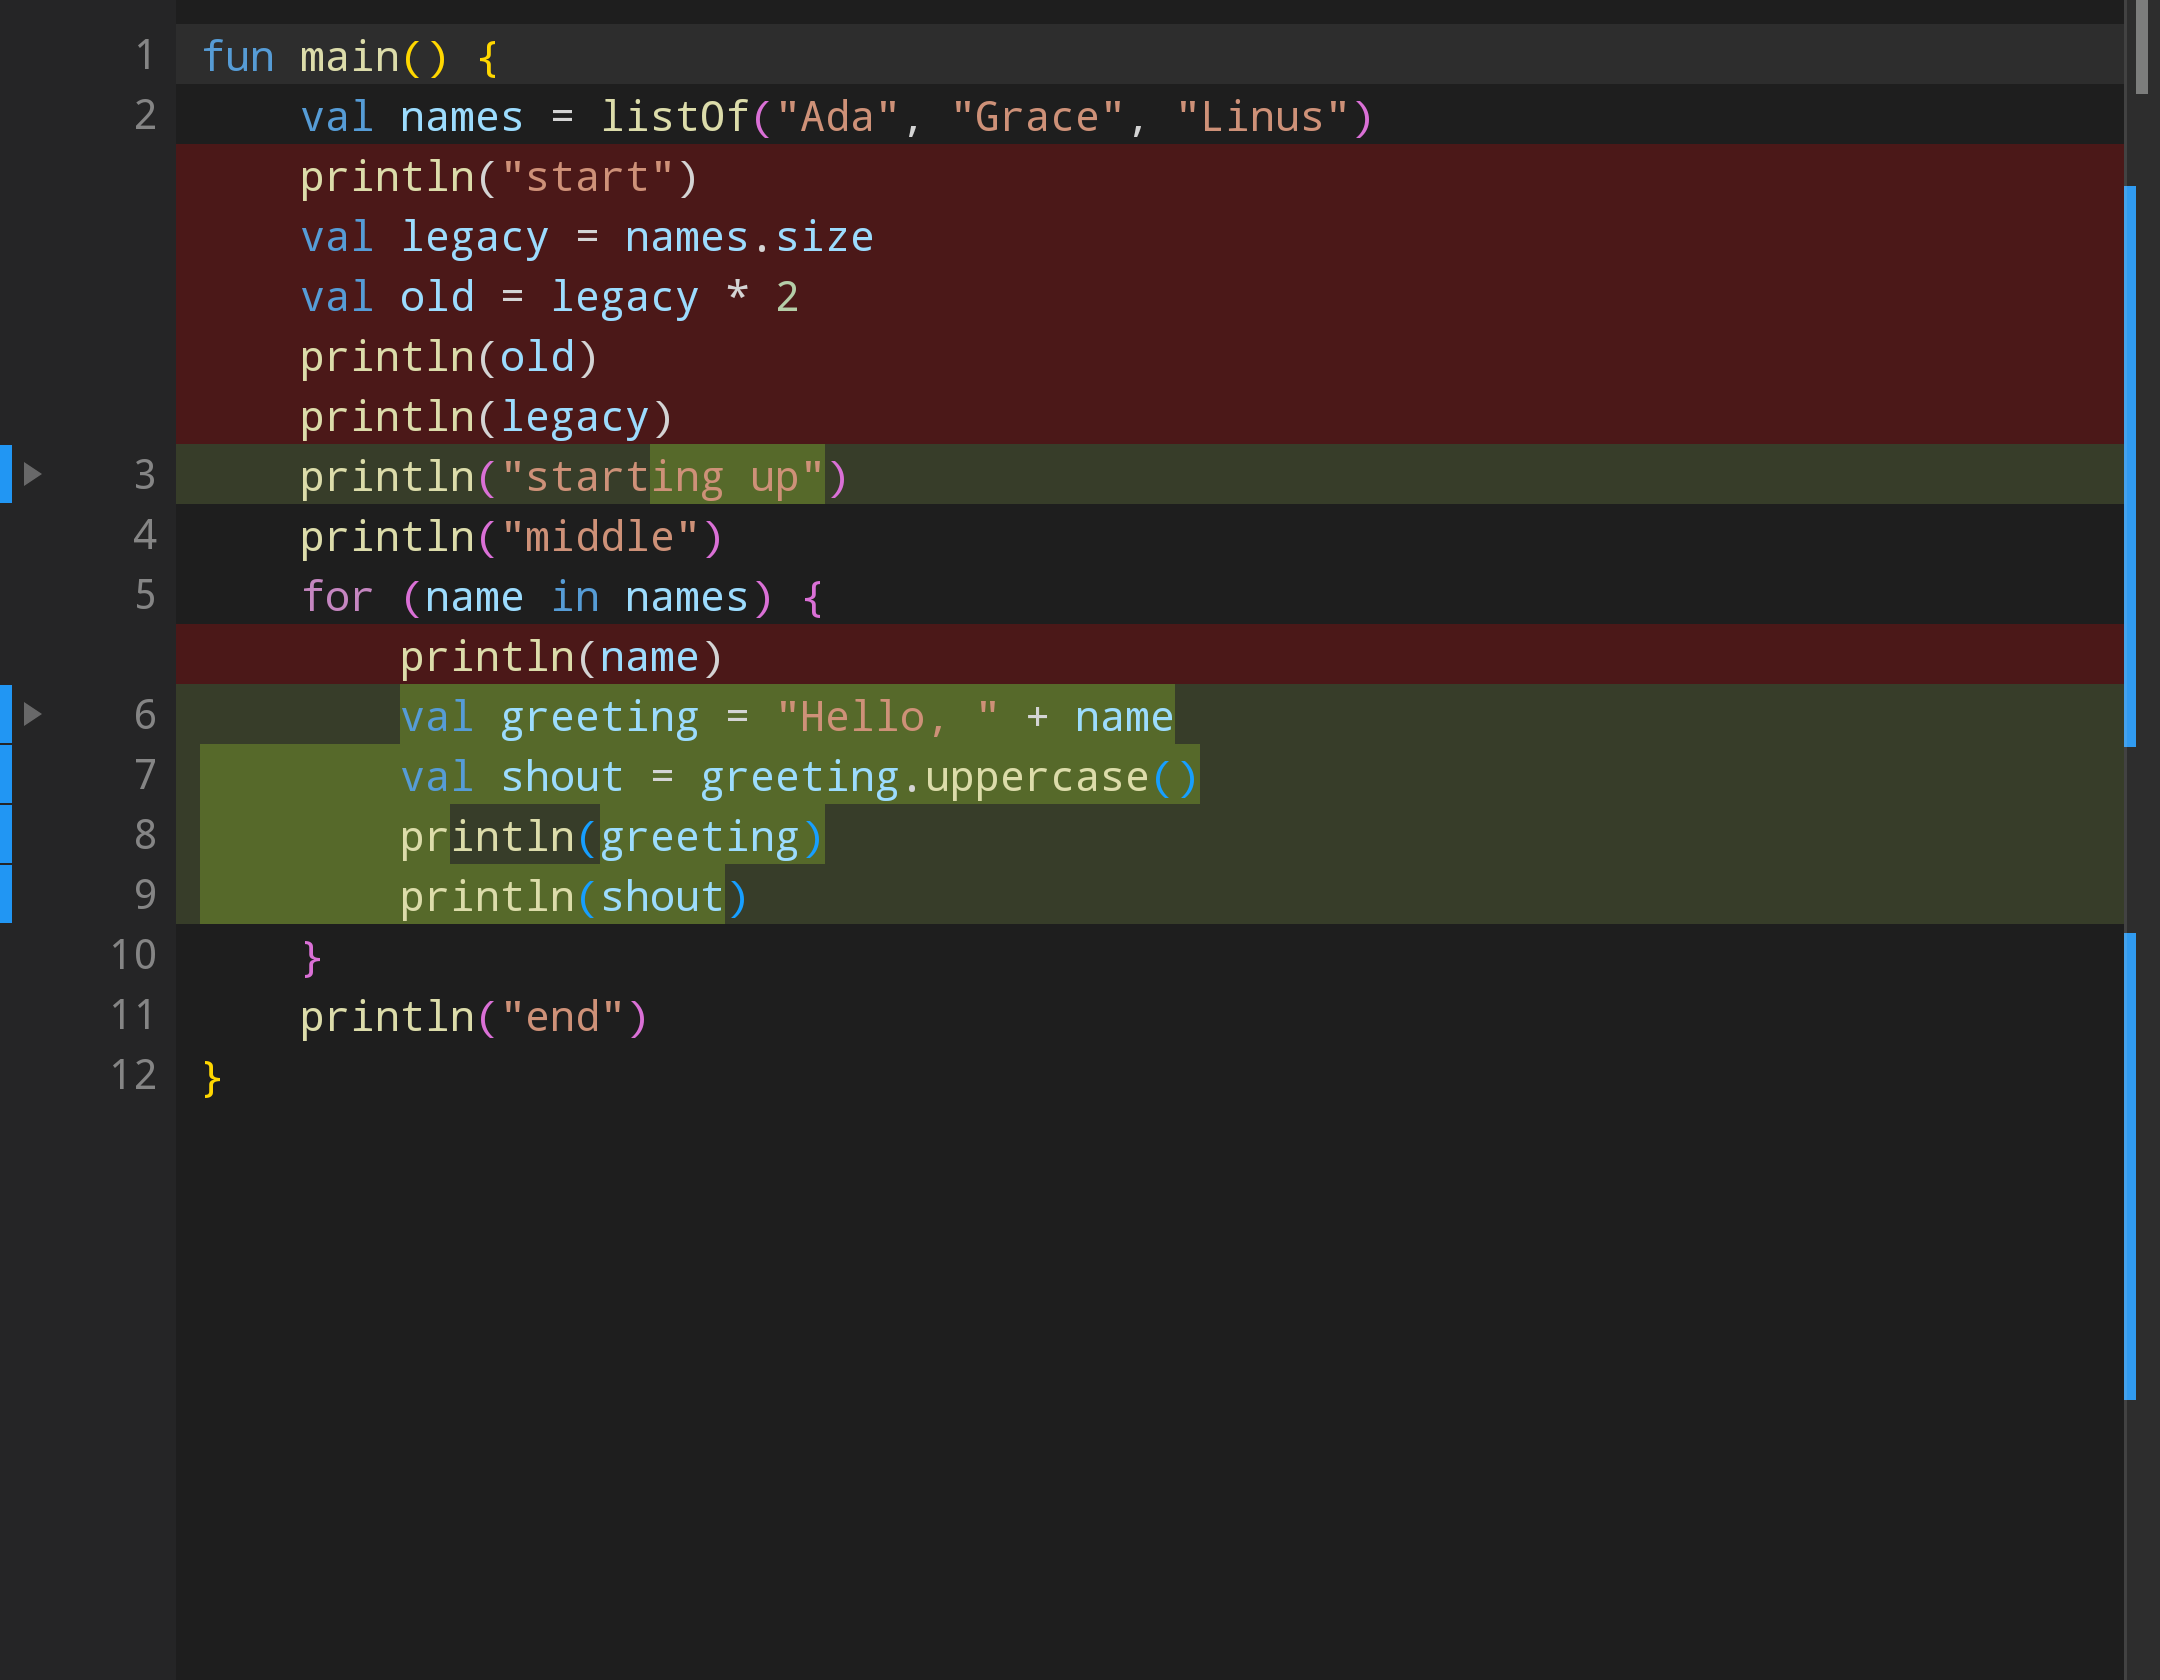
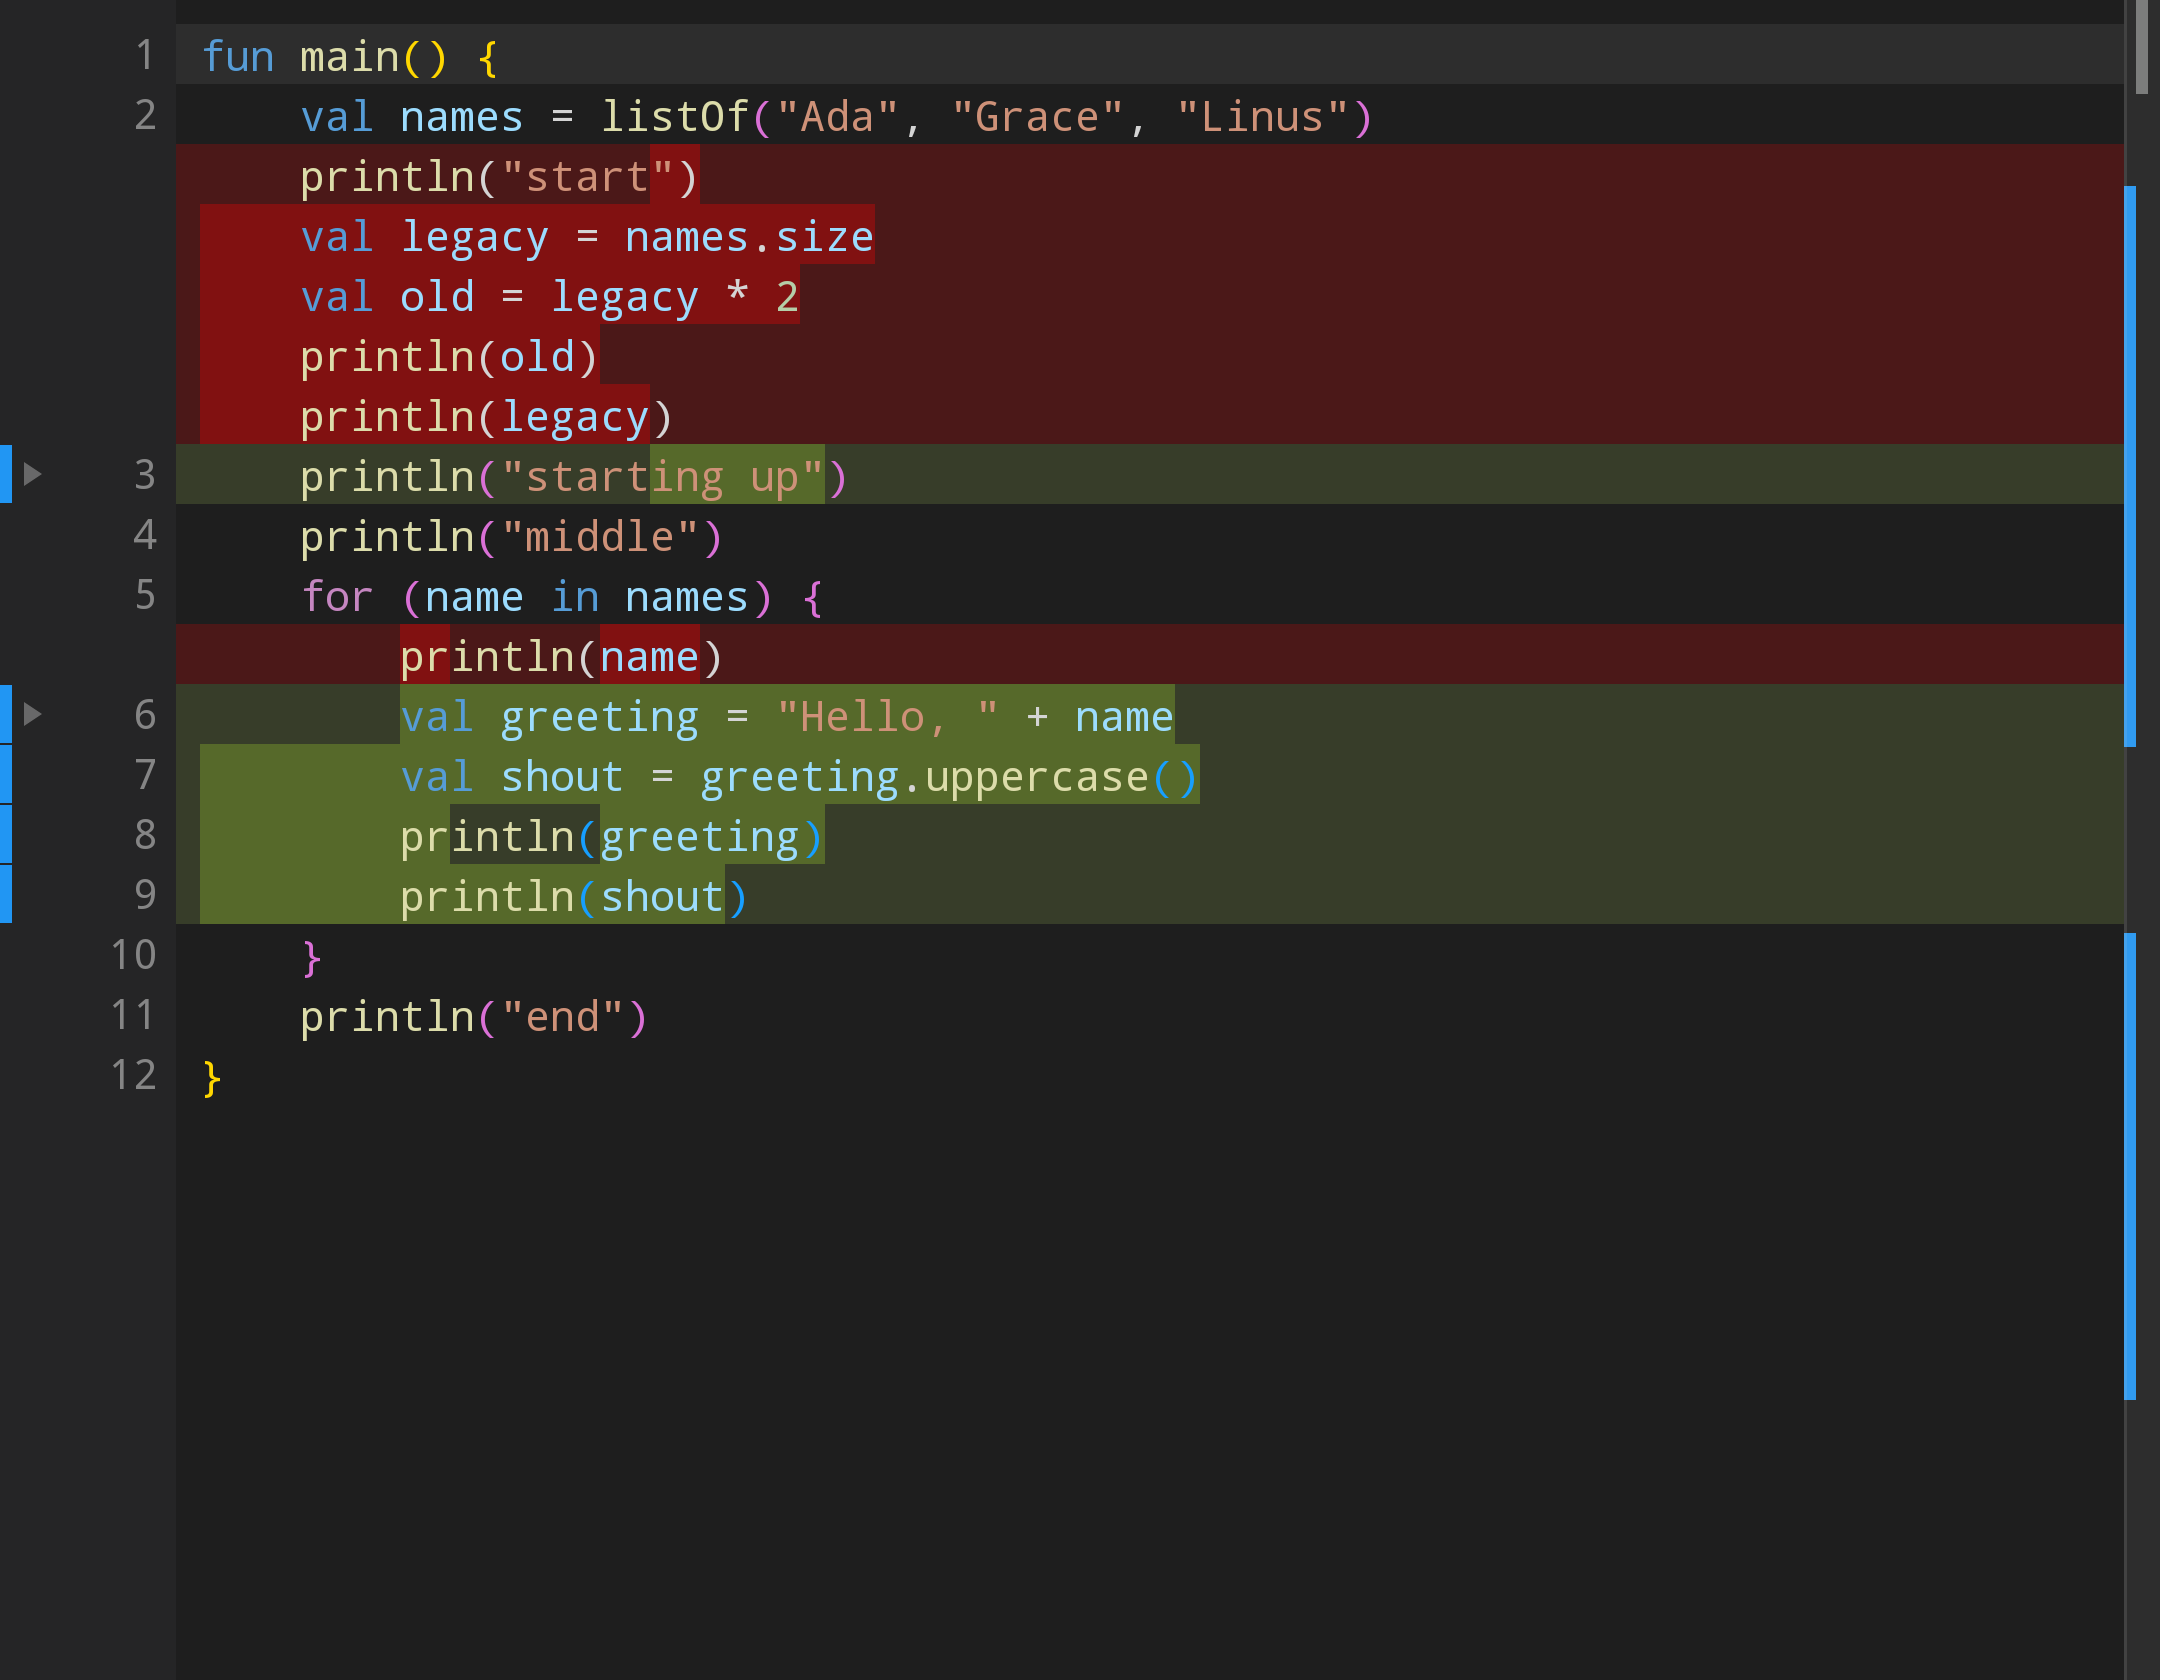
feat(editor): inline, the characters a change removed are marked in its deleted rows

Changed region(s): [[0.0931, 0.0619, 0.4032, 0.2786], [0.2792, 0.3714, 0.3412, 0.4333], [0.1861, 0.3714, 0.2171, 0.4333]]

diff --git a/editor/src/commonMain/kotlin/com/aardarch/aardink/ui/view/DiffRows.kt b/editor/src/commonMain/kotlin/com/aardarch/aardink/ui/view/DiffRows.kt
@@ -107,6 +107,7 @@ internal object DiffRows {
         tabSize: Int,
         cap: Int = MAX_INLINE_ROWS,
         expanded: Set<Int> = emptySet(),
+        removedText: Color = Color.Unspecified,
     ): Map<Int, List<Injection>> {
         val rows = HashMap<Int, MutableList<Injection>>()
         for (block in blocks) {
@@ -130,7 +131,14 @@ internal object DiffRows {
                 }
             }
             for (line in block.originalStart until block.originalStart + shown) {
-                val (text, spans) = shownLine(original, line, tokenStyle, tabSize)
+                val removed = if (removedText ==
+                    Color.Unspecified
+                ) {
+                    emptyList()
+                } else {
+                    block.charChanges.orEmpty().map { it.originalStart until it.originalEnd }
+                }
+                val (text, spans) = shownLine(original, line, tokenStyle, tabSize, removed, removedText)
                 add(text, spans)
             }
             if (capped) add("${block.originalLines - shown} more deleted lines", emptyList(), MoreDeletedRows(block.originalStart))
@@ -161,6 +169,8 @@ internal object DiffRows {
         line: Int,
         tokenStyle: (TokenType) -> SpanStyle?,
         tabSize: Int,
+        removed: List<IntRange> = emptyList(),
+        removedText: Color = Color.Unspecified,
     ): Pair<String, List<InjectedSpan>> {
         val document = state.document
         val raw = document.subSequence(document.lineStart(line), document.lineEnd(line)).toString().take(EditorView.MAX_RENDERED_LINE_CHARS)
@@ -185,6 +195,13 @@ internal object DiffRows {
                 val to = at[tokens.end(i).coerceIn(0, raw.length)]
                 if (to > from) spans += InjectedSpan(from, to, style)
             }
+        }
+        // The characters the change removed from this line: offsets of the original, from the diff.
+        val lineStart = document.lineStart(line)
+        for (range in removed) {
+            val first = (range.first - lineStart).coerceIn(0, raw.length)
+            val end = (range.last + 1 - lineStart).coerceIn(0, raw.length)
+            if (end > first) spans += InjectedSpan(at[first], at[end], SpanStyle(background = removedText))
         }
         return text.toString() to spans
     }

diff --git a/editor/src/commonMain/kotlin/com/aardarch/aardink/ui/CodeDiffEditorLayout.kt b/editor/src/commonMain/kotlin/com/aardarch/aardink/ui/CodeDiffEditorLayout.kt
@@ -228,6 +228,7 @@ fun CodeDiffEditorLayout(
                             colors.removedLine,
                             editorOptions.tabSize,
                             expanded = expanded,
+                            removedText = colors.removedText,
                         ),
                     )
                 }
@@ -404,7 +405,20 @@ private const val MIN_SPLIT = 0.1f
 private val DIVIDER_WIDTH = 5.dp
 
 private fun List<LineChange>.toBlocks(): List<Block> = map {
-    Block(it.originalLines.first, it.originalLines.last + 1, it.modifiedLines.first, it.modifiedLines.last + 1, null)
+    Block(
+        it.originalLines.first,
+        it.originalLines.last + 1,
+        it.modifiedLines.first,
+        it.modifiedLines.last + 1,
+        it.charChanges?.map { c ->
+            com.aardarch.aardink.core.diff.CharChange(
+                c.original.first,
+                c.original.last + 1,
+                c.modified.first,
+                c.modified.last + 1,
+            )
+        },
+    )
 }
 
 // ── The commands ─────────────────────────────────────────────────────────────

diff --git a/editor/src/skikoTest/kotlin/com/aardarch/aardink/ui/view/DiffRowsTest.kt b/editor/src/skikoTest/kotlin/com/aardarch/aardink/ui/view/DiffRowsTest.kt
@@ -316,4 +316,15 @@ class DiffRowsTest {
         val deletedLines = diff.changes.sumOf { it.originalEnd - it.originalStart }
         assertEquals(inline.state.document.lineCount + deletedLines, inline.lineMap.totalRows)
     }
+
+    @Test
+    fun `inline, the characters a change removed are marked inside the deleted row`() {
+        val original = InlineFixture.stateOf("keep\nprintln(start)\nkeep")
+        val modified = InlineFixture.stateOf("keep\nprintln(begin)\nkeep").document
+        // "start" is offsets 13 until 18 of the original.
+        val change = LineChange(1, 2, 1, 2, listOf(com.aardarch.aardink.core.diff.CharChange(13, 18, 13, 18)))
+        val marked = Color(0x4DFF0000)
+        val row = DiffRows.inline(listOf(change), original, modified, { null }, removed, 4, removedText = marked).getValue(1).single()
+        assertEquals(listOf(8 to 13), row.spans.filter { it.style.background == marked }.map { it.start to it.end })
+    }
 }

diff --git a/docs/AARDINK_ROADMAP.md b/docs/AARDINK_ROADMAP.md
@@ -566,6 +566,9 @@ The work:
 - `signatureHelpTriggerCharacters` is accepted on the web and not used (§16.1).
 - A regex tokenizer's partial pass can miss a string or comment opener that matched nothing until an
   edit more than 256 characters after it closed it; in JSON, TypeScript, CSS and HTML bodies (§17.1).
+- A diff's character changes are by character, so two different lines can share scattered letters
+  (`pr`, `intln(`) and a run across lines takes the next line's indentation; Monaco extends them
+  to word boundaries (§17.1).
 
 ## 10. Threads through every version
 
@@ -1289,6 +1292,7 @@ additions, each forced by the design or found while building it.
 | `hideUnchangedRegions` | A hidden run is a fold on each side, its first line the last line of context, with "N unchanged lines" after it. Opening one opens the other side's. A region opened stays open when the diff is worked out again; new ones start folded. `unchangedContextLines` is at least 1 | The fold machinery hides lines and rows already |
 | The inline view's cap | 1,000 rows of a block, then a row with the number of lines left, which shows them all when clicked. The deleted lines take the original's token colours, and follow them as the original is highlighted | §17's choice |
 | — | `EditorView.attach` shows rows published before the view was attached, which it missed before | Found by the layout's first UI test |
+| — | The inline view's deleted rows mark the characters a change removed, as the original side does | Found looking at the `diff-inline` scene |
 
 ## 13. Verification
 
